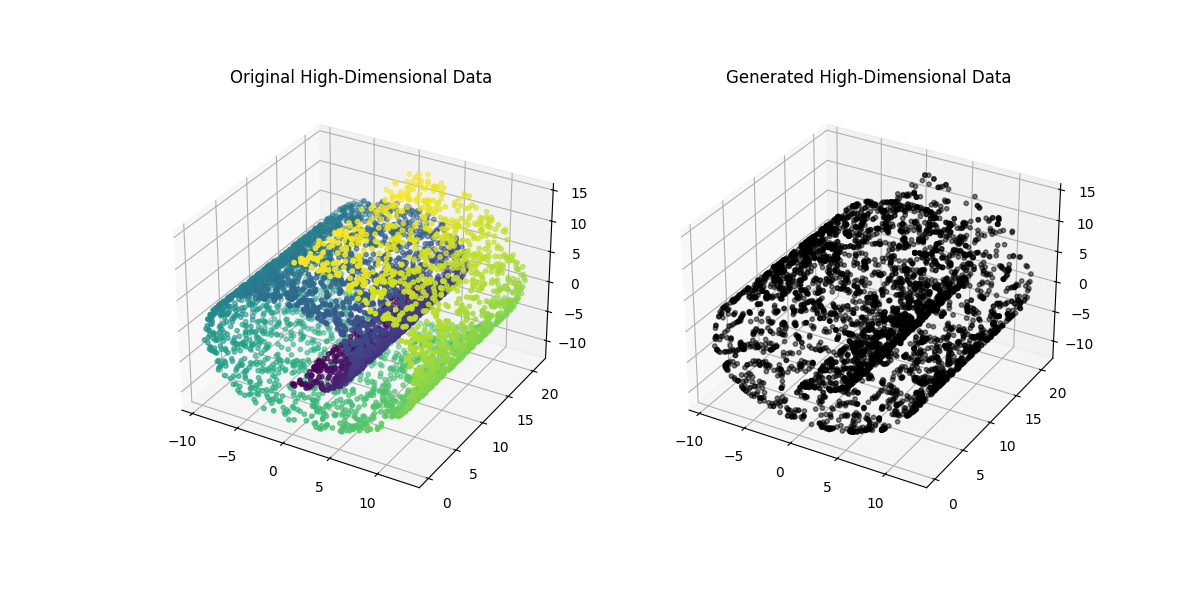
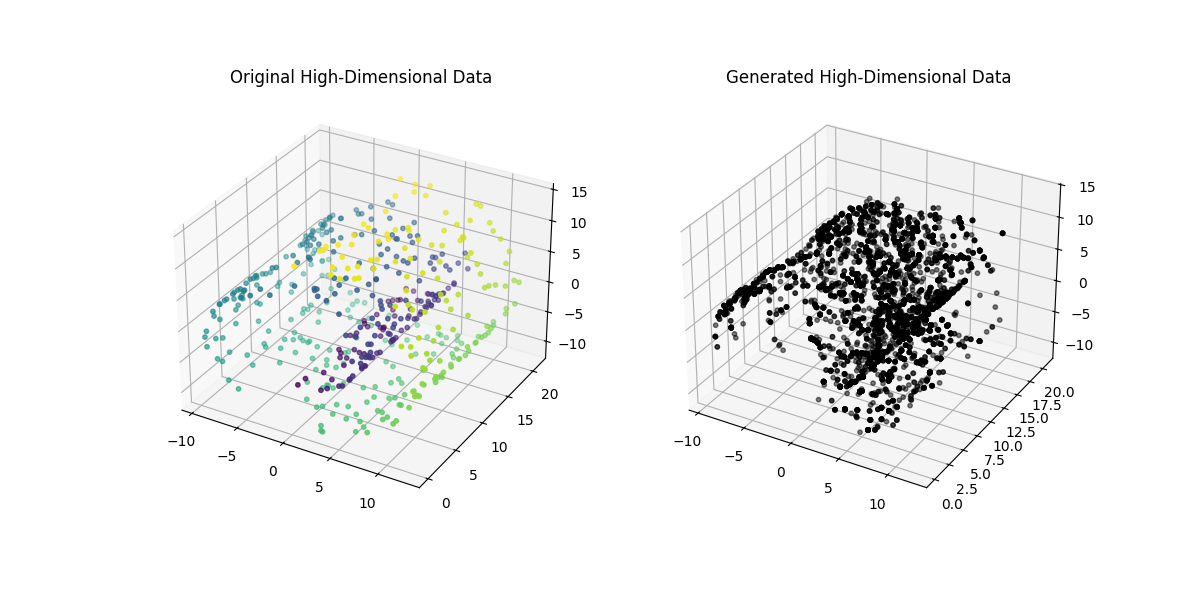
commit

diff --git a/manifold.py b/manifold.py
@@ -9,7 +9,7 @@ from src.plot_data import *
 
 def main():
     parser = argparse.ArgumentParser()
-    parser.add_argument('--red', default='tsne', choices=['kpca', 'lle', 'tsne', 'umap'])
+    parser.add_argument('--red', default='lle', choices=['kpca', 'lle', 'tsne', 'umap'])
     parser.add_argument('--reg', default='knn', choices=['svr', 'rf', 'gb', 'knn', 'poly'])
     parser.add_argument('--sam', default='mixup', choices=['kde', 'mixup'])
     args = parser.parse_args() 
@@ -19,9 +19,10 @@ def main():
     sam = args.sam
     
     ### Swiss Roll ###
-    n_samples   = 5000
-    noise       = 0.05
-    data, color = make_swiss_roll(n_samples=n_samples, noise=noise)
+    n_samples     = 5000
+    n_new_samples = 5000
+    noise         = 0.05
+    data, color   = make_swiss_roll(n_samples=n_samples, noise=noise)
 
     ### Dimensionality reduction ###
     print(f"Dimensionality reduction...")
@@ -52,9 +53,9 @@ def main():
     ### Generate Low-Dimensional Data ###
     print(f"Generate Low-Dimensional Data...")
     if sam == 'kde':
-        new_low_dim_data = generate_samples_from_kde(reduced_data, n_samples=5000)
+        new_low_dim_data = generate_samples_from_kde(reduced_data, n_samples=n_new_samples)
     elif sam == 'mixup':
-        new_low_dim_data = generate_samples_from_mixup(reduced_data, n_samples=5000)
+        new_low_dim_data = generate_samples_from_mixup(reduced_data, n_samples=n_new_samples)
     plot_low_dim_comparison(reduced_data, new_low_dim_data)
 
     ### Generate High Dimensional Data using Regressor ###
